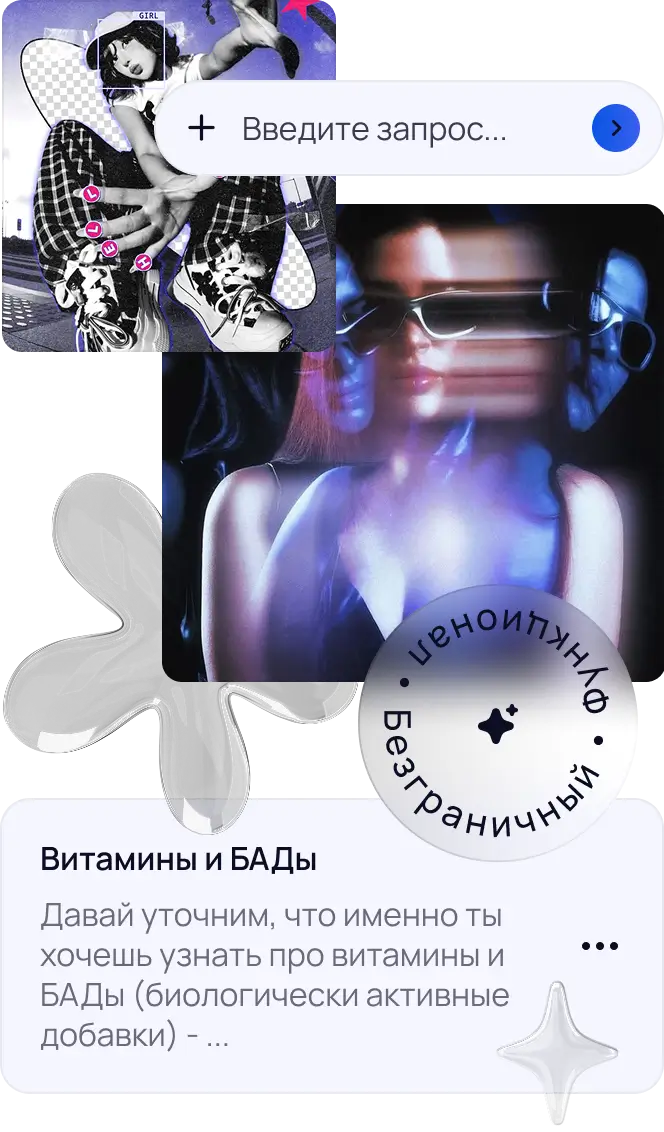
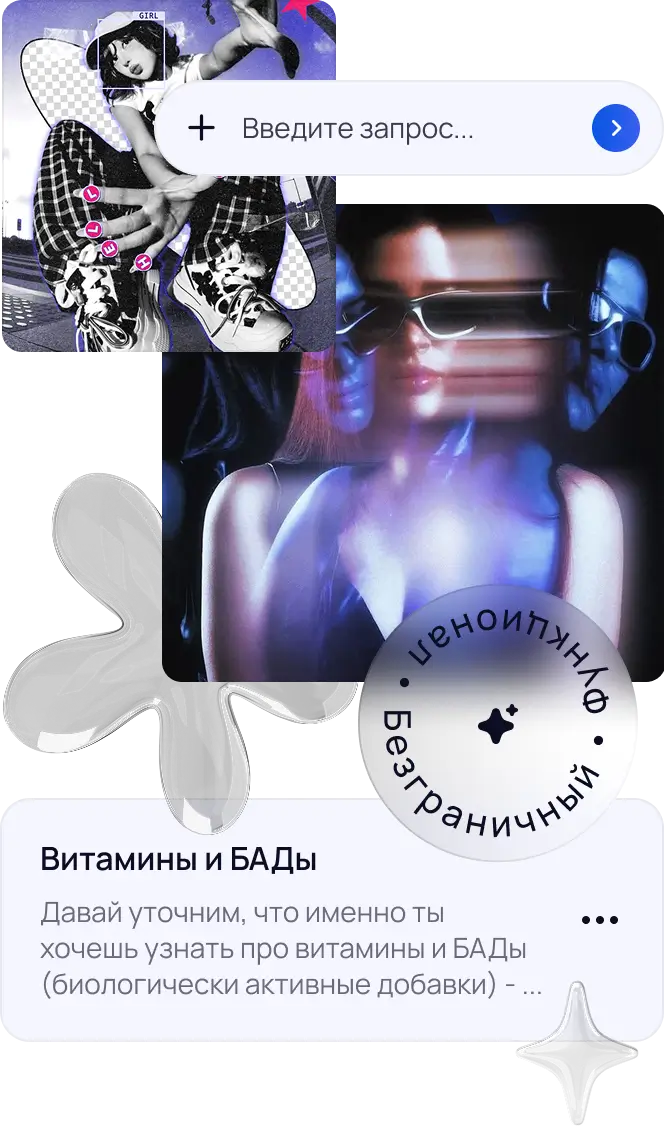
first

diff --git a/index.html b/index.html
@@ -10,6 +10,7 @@
     <meta http-equiv="X-UA-Compatible" content="ie=edge" />
     <title>Yeyo</title>
     <link rel="stylesheet" href="style.css" />
+    <link rel="icon" type="image/png" href="fav.png" />
     <link
       rel="stylesheet"
       href="https://cdn.jsdelivr.net/npm/swiper@11/swiper-bundle.min.css"
@@ -115,7 +116,7 @@
                     <p>Для рабочих задач</p>
                   </div>
                   <div class="hero-tag-item G-align-center">
-                    <i class="icon icon-material"></i>
+                    <i class="icon icon-school"></i>
                     <p>Для учёбы и проектов</p>
                   </div>
                   <div class="hero-tag-item G-align-center">
@@ -161,7 +162,7 @@
                   <div class="hero-small-cart">
                     <div class="hero-small-cart-texts">
                       <p>
-                        привет напиши мне письмо рекомендательное для дизайнера
+                       Объясни простым языком, что сейчас происходит в мировой экономике
                       </p>
                     </div>
                     <div class="small-cart-actions G-align-center">
@@ -514,10 +515,7 @@
                 </div>
               </div>
 
-              <a class="how-work-btn primary-btn" href="#">
-                <i class="icon icon-arrowUp"></i>
-                <span class="mobile-block">Попробовать</span>
-              </a>
+         
 
               <div class="how-work-tags">
                 <div class="how-work-tag">
@@ -528,6 +526,11 @@
                   <i class="icon icon-lightning"></i>
                   <p>Быстрее</p>
                 </div>
+
+                     <div class="how-work-tag">
+                  <i class="icon icon-pen"></i>
+                  <p>Точнее</p>
+                </div>
                 <div class="how-work-tag">
                   <i class="icon icon-order"></i>
                   <p>Последовательнее</p>
@@ -537,6 +540,10 @@
                   <p>Лучше</p>
                 </div>
               </div>
+                   <a class="how-work-btn primary-btn" href="#">
+                <i class="icon icon-arrowUp"></i>
+                <span class="mobile-block">Попробовать</span>
+              </a>
             </div>
           </div>
         </section>

diff --git a/style.css b/style.css
@@ -640,7 +640,7 @@ header {
 }
 .hero-small-cart-texts p {
   font-family: "Manrope";
-  font-weight: 600;
+  font-weight: 400;
   font-size: 16px;
   line-height: 20px;
   color: var(--text-color);
@@ -1650,13 +1650,13 @@ header {
     line-height: 20px;
   }
   .hero-section {
-    margin-top: 168px;
+    margin-top: 147px;
   }
   .hero-tags-items {
     margin-top: 37px;
   }
   .hero-blur {
-    top: -190px;
+    top: -160px;
   }
   .p-item-texts h2 {
     font-size: 18px;

diff --git a/assets/images/icons/icon.css b/assets/images/icons/icon.css
@@ -60,3 +60,11 @@
     mask-image: url(order.svg);
   -webkit-mask-image: url(order.svg);
 }
+.icon-pen{
+    mask-image: url(pen.svg);
+  -webkit-mask-image: url(pen.svg);
+}
+.icon-school{
+      mask-image: url(school.svg);
+  -webkit-mask-image: url(school.svg);
+}
